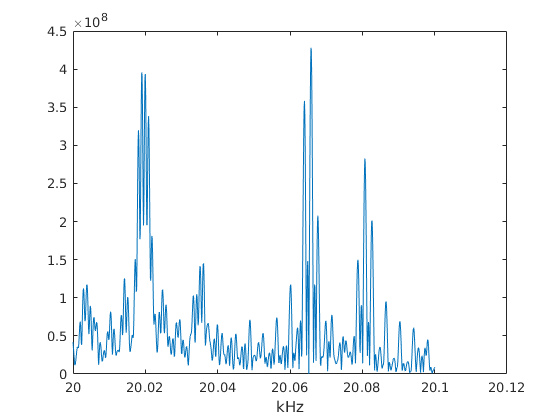
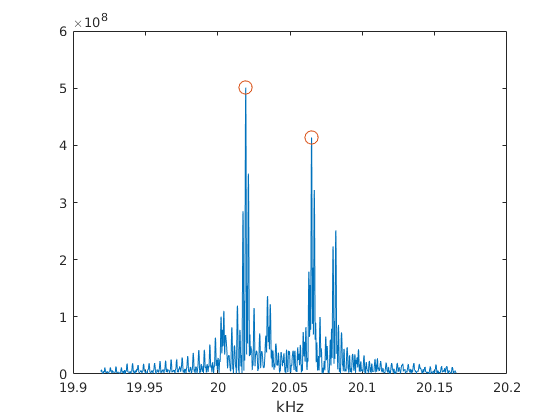
Updated images

diff --git a/src/transmitwFreq.m b/src/transmitwFreq.m
@@ -1,6 +1,7 @@
 %%Set Up SDR Coefs
 addpath(genpath('../drivers'));
 clear all;
+close all;
 % Public, non-tunable properties.
 sdr = PlutoSDR;
 %mode Transceiver mode of SDR
@@ -41,7 +42,7 @@ amplitude = 1024;
 gaussFiltRight = exp(-tFilt .^ 2 / (2 * .002 ^ 2));
 gaussFilt = [fliplr(gaussFiltRight) gaussFiltRight];
 
-%TxFlt = comm.RaisedCosineTransmitFilter('OutputSamplesPerSymbol', 1, 'FilterSpanInSymbols', 8);
+% TxFlt = comm.RaisedCosineTransmitFilter('OutputSamplesPerSymbol', 1, 'FilterSpanInSymbols', 8);
 
 %%Generate two test signals that are modulated in the baseband to Fmod+Signal
 sig1 = sin(2*pi*(700+Fmod)*tsym).*amplitude;
@@ -51,8 +52,8 @@ sig0 = sin(2*pi*(200+Fmod)*tsym).*amplitude;
 sig1 = sig1.*gaussFilt;
 sig0 = sig0.*gaussFilt;
 
-%sig1 = step(TxFlt, sig1);
-%sig0 = step(TxFlt, sig0);
+% sig1 = step(TxFlt, sig1);
+% sig0 = step(TxFlt, sig0);
 
 %%create mulitple fsk signals in the same frame
 frame1 = [sig1 sig1 sig1 sig1];
@@ -94,22 +95,47 @@ figure(1)
 plot(real(dataFilter))
 
 fftData = abs(fft(dataFilter, Fs));
+% 'Carrier' is the max freq
 [~, fMax] = max(fftData);
 
-if(fftData(fMax - 356) < fftData(fMax + 356))
+% Exact other freq is not know, so search an area
+freqSep = 450;
+halfWindow = 100;
+[a1, f1] = max(fftData(fMax-freqSep-halfWindow:fMax-freqSep+halfWindow));
+[a2, f2] = max(fftData(fMax+freqSep-halfWindow:fMax+freqSep+halfWindow));
+
+if(a1 < a2) % 'Carrier' is lower frequency
     lowFreq = fMax;
-    highFreq = fMax + 356;
-else
-    lowFreq = fMax - 356;
+    highFreq = fMax + freqSep + (f2-halfWindow-1);
+else % 'Carrier' is higher frequency
+    lowFreq = fMax - freqSep + (f1-halfWindow-1);
     highFreq = fMax;
 end
 
 figure(2)
 
-low = 1;%2e5;
-high = 1e6;%2.01e5;
+low = 1;
+high = 1e6;
 
 freqs = 1000.*(low/Fs:1/Fs:high/Fs);
 plot(freqs,fftData(low:high))
 xlabel('kHz');
+
+figure(3);
+low = lowFreq-1e3;
+high = highFreq+1e3;
+
+x = (1000/Fs).*[lowFreq highFreq];
+y = [fftData(lowFreq) fftData(highFreq)];
+
+
+freqs = 1000.*(low/Fs:1/Fs:high/Fs);
+plot(freqs, fftData(low:high))
+hold on
+scatter(x, y, 100)
+hold off
+
+xlabel('kHz');
+
+
 clear sdr;
